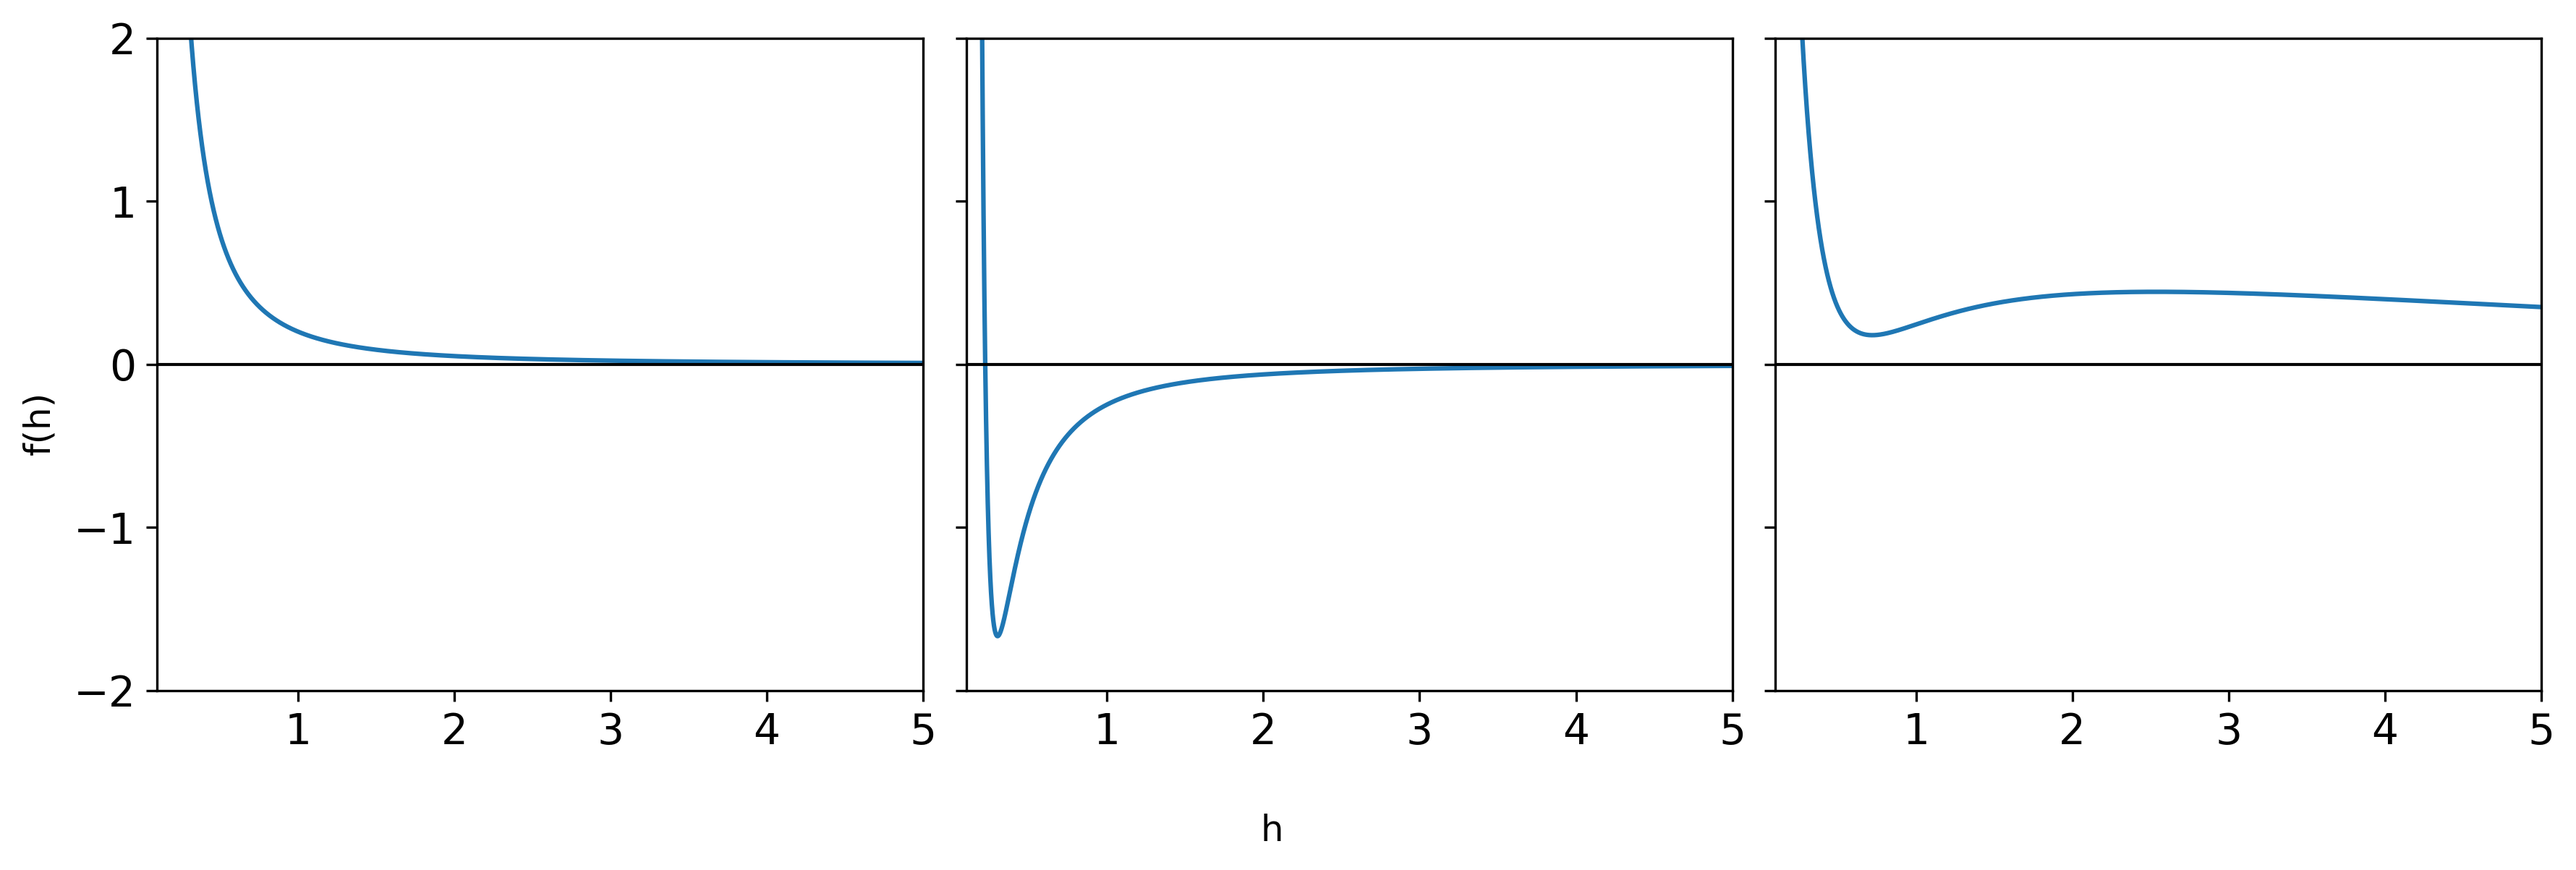
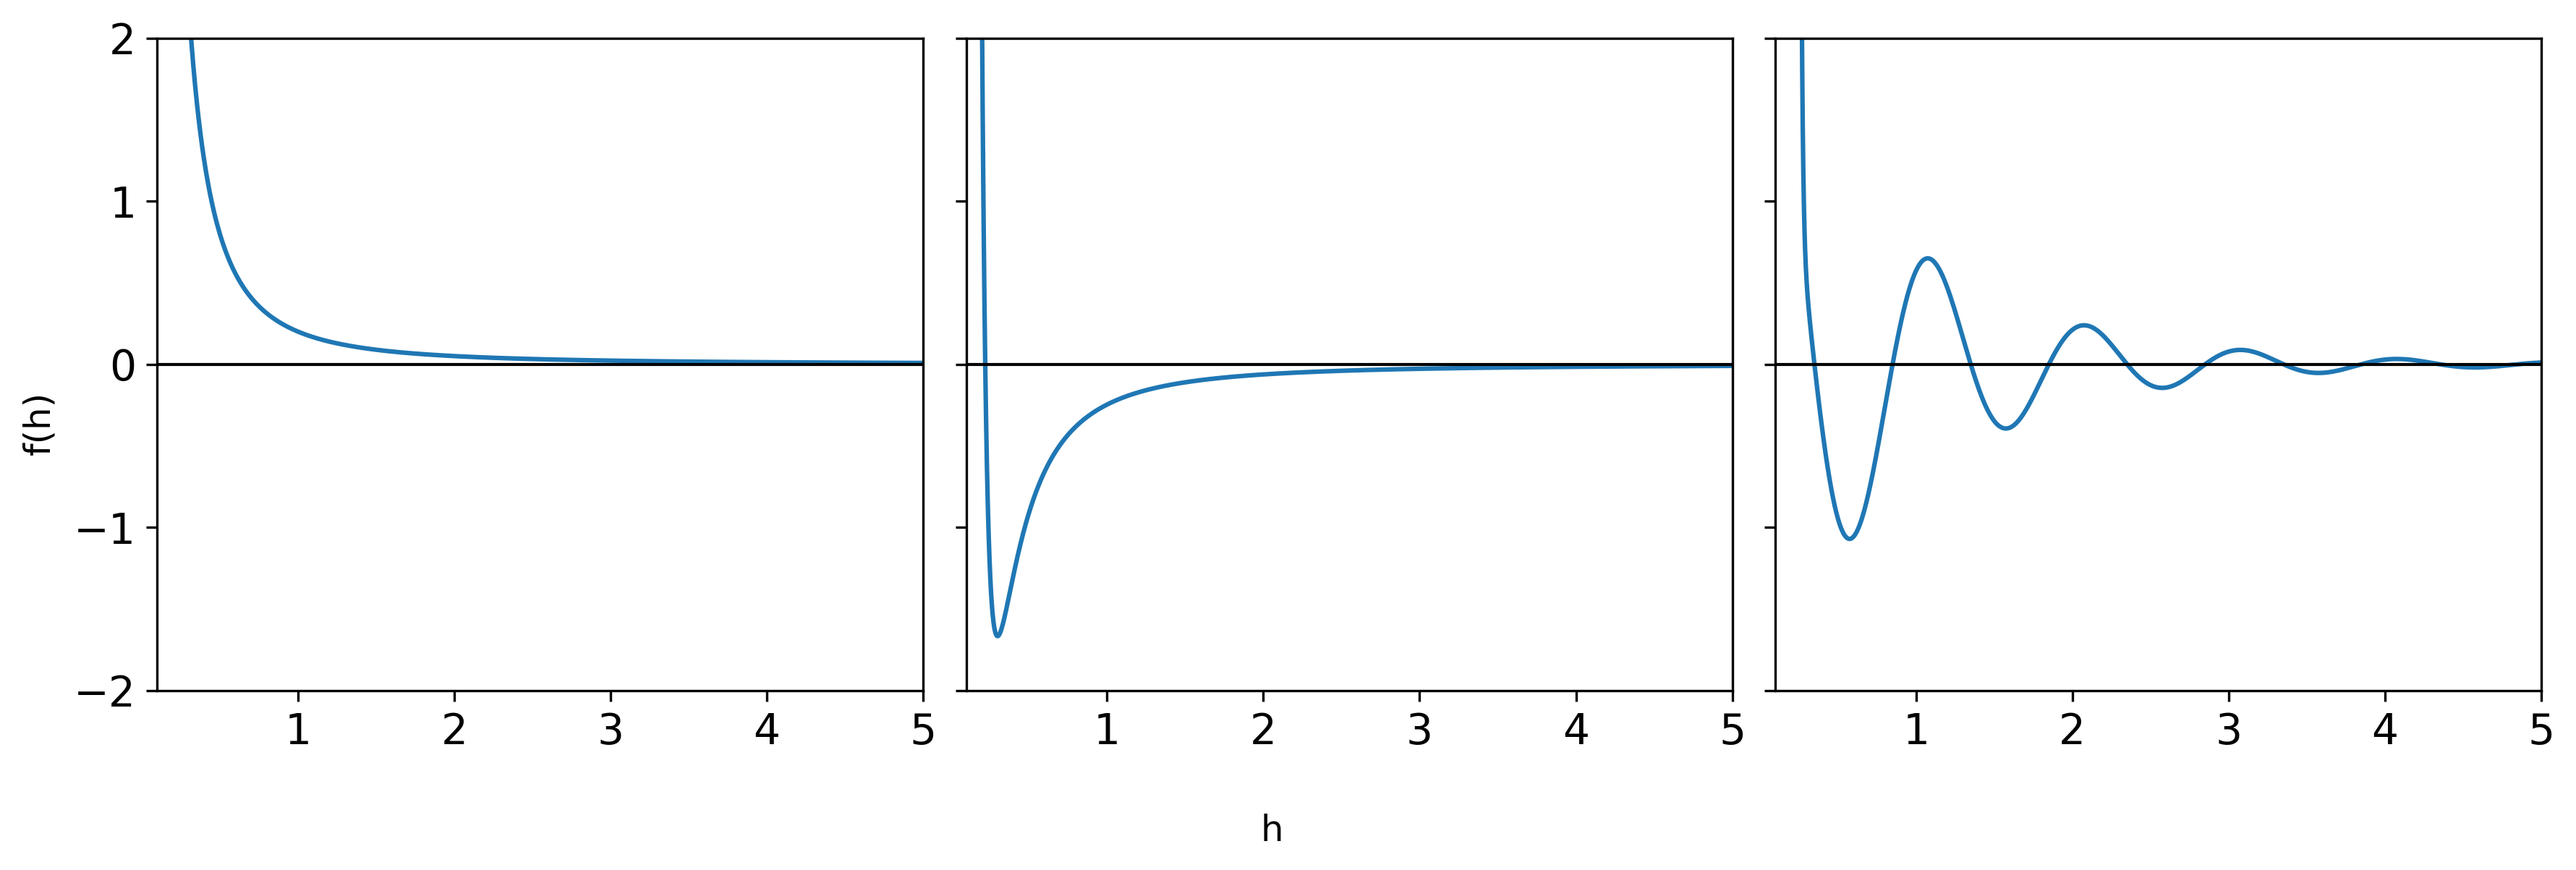
Binding potential plot

diff --git a/binding_potential_plots.py b/binding_potential_plots.py
@@ -34,7 +34,7 @@ def main():
     x = np.linspace(x_min, x_max, 10001)
 
     y_f = f(x)
-    y_k = k(x)
+    y_g = g(x)
     y_h = h(x)
     y_lo = -2
     y_hi = 2
@@ -50,7 +50,7 @@ def main():
     #axes[1].grid(True, alpha=0.3)
 
     # Plot h
-    axes[2].plot(x, y_k)
+    axes[2].plot(x, y_g)
     #axes[2].grid(True, alpha=0.3)
 
     # Shared axes labels & limits
